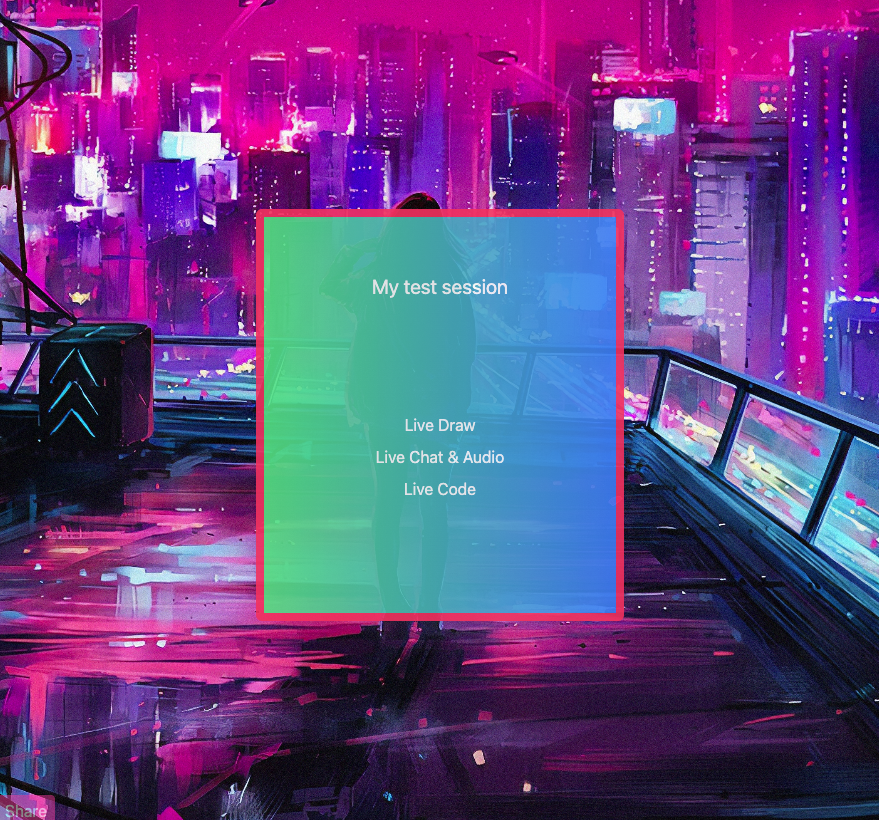
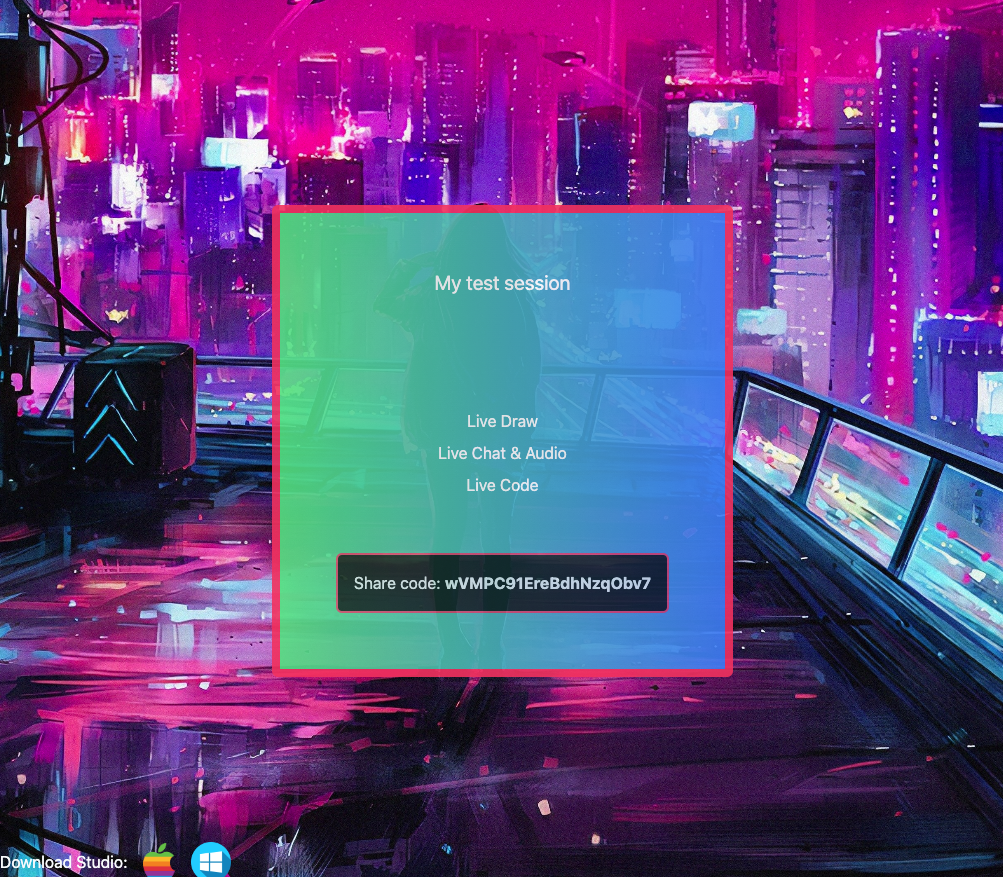
download links

diff --git a/pages/sessions/index.tsx b/pages/sessions/index.tsx
@@ -6,6 +6,7 @@ import EnterButton from '../../components/molecules/EnterButton';
 import SessionStudio from '../../components/organisms/SessionStudio';
 import { codeAtom, isElectronAtom, SessionEvent } from '../../lib/store';
 import { database } from '../../lib/firebase';
+import { DefaultTemplate } from '../../components/templates/DefaultTemplate';
 
 
 function Live() {
@@ -14,7 +15,7 @@ function Live() {
   const [isElectron, setIsElectron] = useAtom(isElectronAtom)
   const [code] = useAtom(codeAtom)
 
-  useEffect(() =>{
+  useEffect(() => {
     const userAgent = navigator.userAgent.toLowerCase();
     if (userAgent.indexOf('electron/') > -1 && sessionData) {
       const electronAPI = (window as any).electronAPI
@@ -41,20 +42,19 @@ function Live() {
   }
 
   return (
-    <>
+    <DefaultTemplate>
       {sessionData
         ? <SessionStudio sessionData={sessionData} />
-        : <div className="grid place-items-center h-screen">
-          <div className='flex flex-col relative p-10 opacity-90 rounded-md border-8 border-rose-500 bg-gradient-to-r from-green-400 to-blue-500'>
-            <CodeField />
-            <EnterButton handleClick={enterRoom} />
-            <div className='py-4 text-red-500'>
-              {error}
-            </div>
+        :
+        <div className='flex flex-col relative p-10 opacity-90 rounded-md border-8 border-rose-500 bg-gradient-to-r from-green-400 to-blue-500'>
+          <CodeField />
+          <EnterButton handleClick={enterRoom} />
+          <div className='py-4 text-red-500'>
+            {error}
           </div>
         </div>
       }
-    </>
+    </DefaultTemplate>
   )
 }
 

diff --git a/components/templates/DefaultTemplate.tsx b/components/templates/DefaultTemplate.tsx
@@ -1,3 +1,5 @@
+import { useAtom } from "jotai";
+import { isElectronAtom } from "../../lib/store";
 
 interface DefaultTemplateProps {
   children: React.ReactNode;
@@ -6,9 +8,22 @@ interface DefaultTemplateProps {
 export function DefaultTemplate({
   children,
 }: DefaultTemplateProps) {
+  const [isElectron] = useAtom(isElectronAtom)
+
   return (
     <div className="grid place-items-center h-screen">
-        {children}
+      {children}
+      { !isElectron && <div className="fixed bottom-1 left-1 flex items-center gap-4">
+        <div>
+          Download Studio:
+        </div>
+        <a href="https://github.com/avastjs/livecode-sessions-desktop/raw/78410df0bfb4a4724c0dda1ad5c9b53d736663f2/out/make/zip/darwin/x64/livecode-session-studio-darwin-x64-1.0.0.zip" target="_blank">
+          <img src="/mac.png" className="w-8" />
+        </a>
+        <a href="" target="_blank">
+          <img src="/win.png" className="w-10 h-10" />
+        </a>
+      </div> }
     </div>
   );
 }

diff --git a/components/organisms/SessionStudio.tsx b/components/organisms/SessionStudio.tsx
@@ -10,7 +10,7 @@ function SessionStudio({ sessionData }: SessionStudioProps) {
   const [code] = useAtom(codeAtom)
 
   return (
-    <div className="grid place-items-center h-screen">
+    <>
       {
         <div className='flex flex-col relative p-14 opacity-90 rounded-md border-8 border-rose-500 bg-gradient-to-r from-green-400 to-blue-500'>
           <h1 className='text-center text-xl'>
@@ -26,7 +26,7 @@ function SessionStudio({ sessionData }: SessionStudioProps) {
           </div>
         </div>
       }
-    </div>
+    </>
   )
 }
 

diff --git a/README.md b/README.md
@@ -10,14 +10,15 @@ It is just a simple desk app which puts 3 apps together (code, audio, draw) in a
 
 ## Downloads
 
-### Website (to create room): 
-[https://livecode-sessions.vercel.app/](https://livecode-sessions.vercel.app/)
+### Website (create room and download the app): 
+[https://live.vastjs.io/](https://live.vastjs.io/)
 
 ### Desktop App (Session Studio): 
 
-Windows: 
 
-MacOS: 
+Windows: Soon
+
+MacOS: [Download here](https://github.com/avastjs/livecode-sessions-desktop/raw/78410df0bfb4a4724c0dda1ad5c9b53d736663f2/out/make/zip/darwin/x64/livecode-session-studio-darwin-x64-1.0.0.zip)
 
 ## Apps Recommended
 
@@ -49,7 +50,7 @@ Share de code
 
 
 ### 2) Creator / Audience / Students
-Download desktop app and enter the code: 
+Download desktop app from https://live.vastjs.io/ and enter the code: 
 ![Alt text](s4.png "Title")
 
 Student/Collaborators Studio: 
